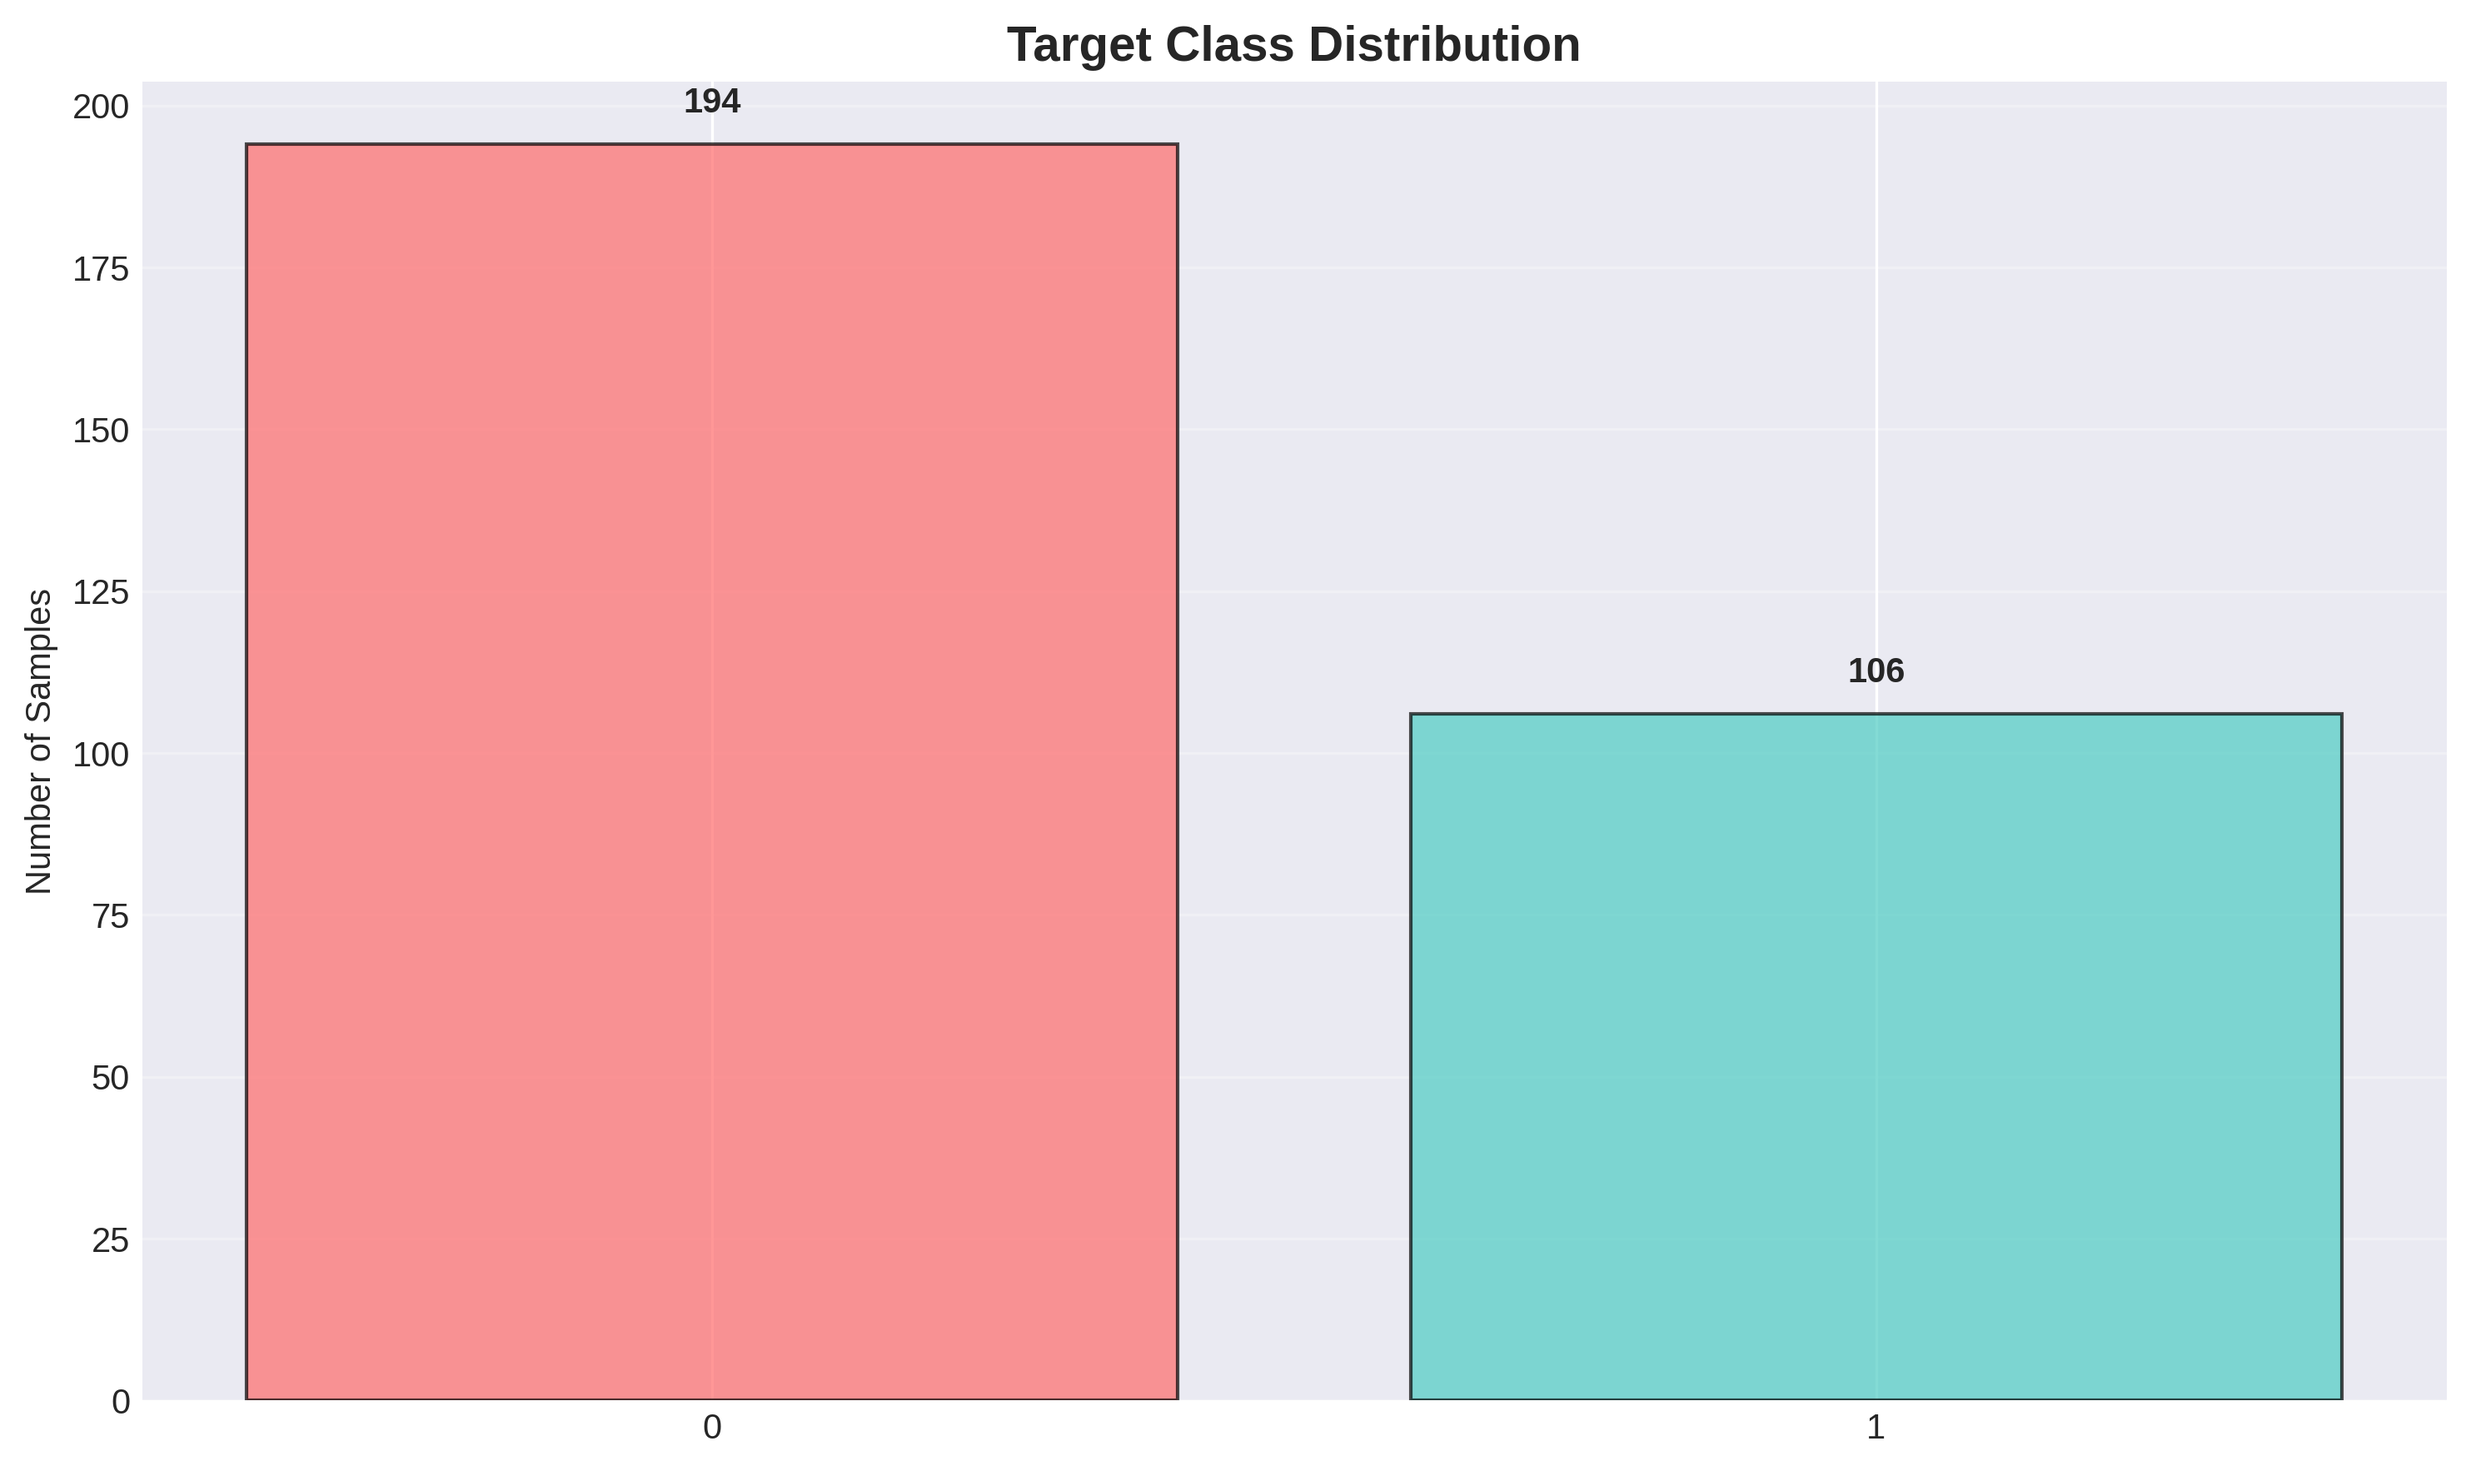
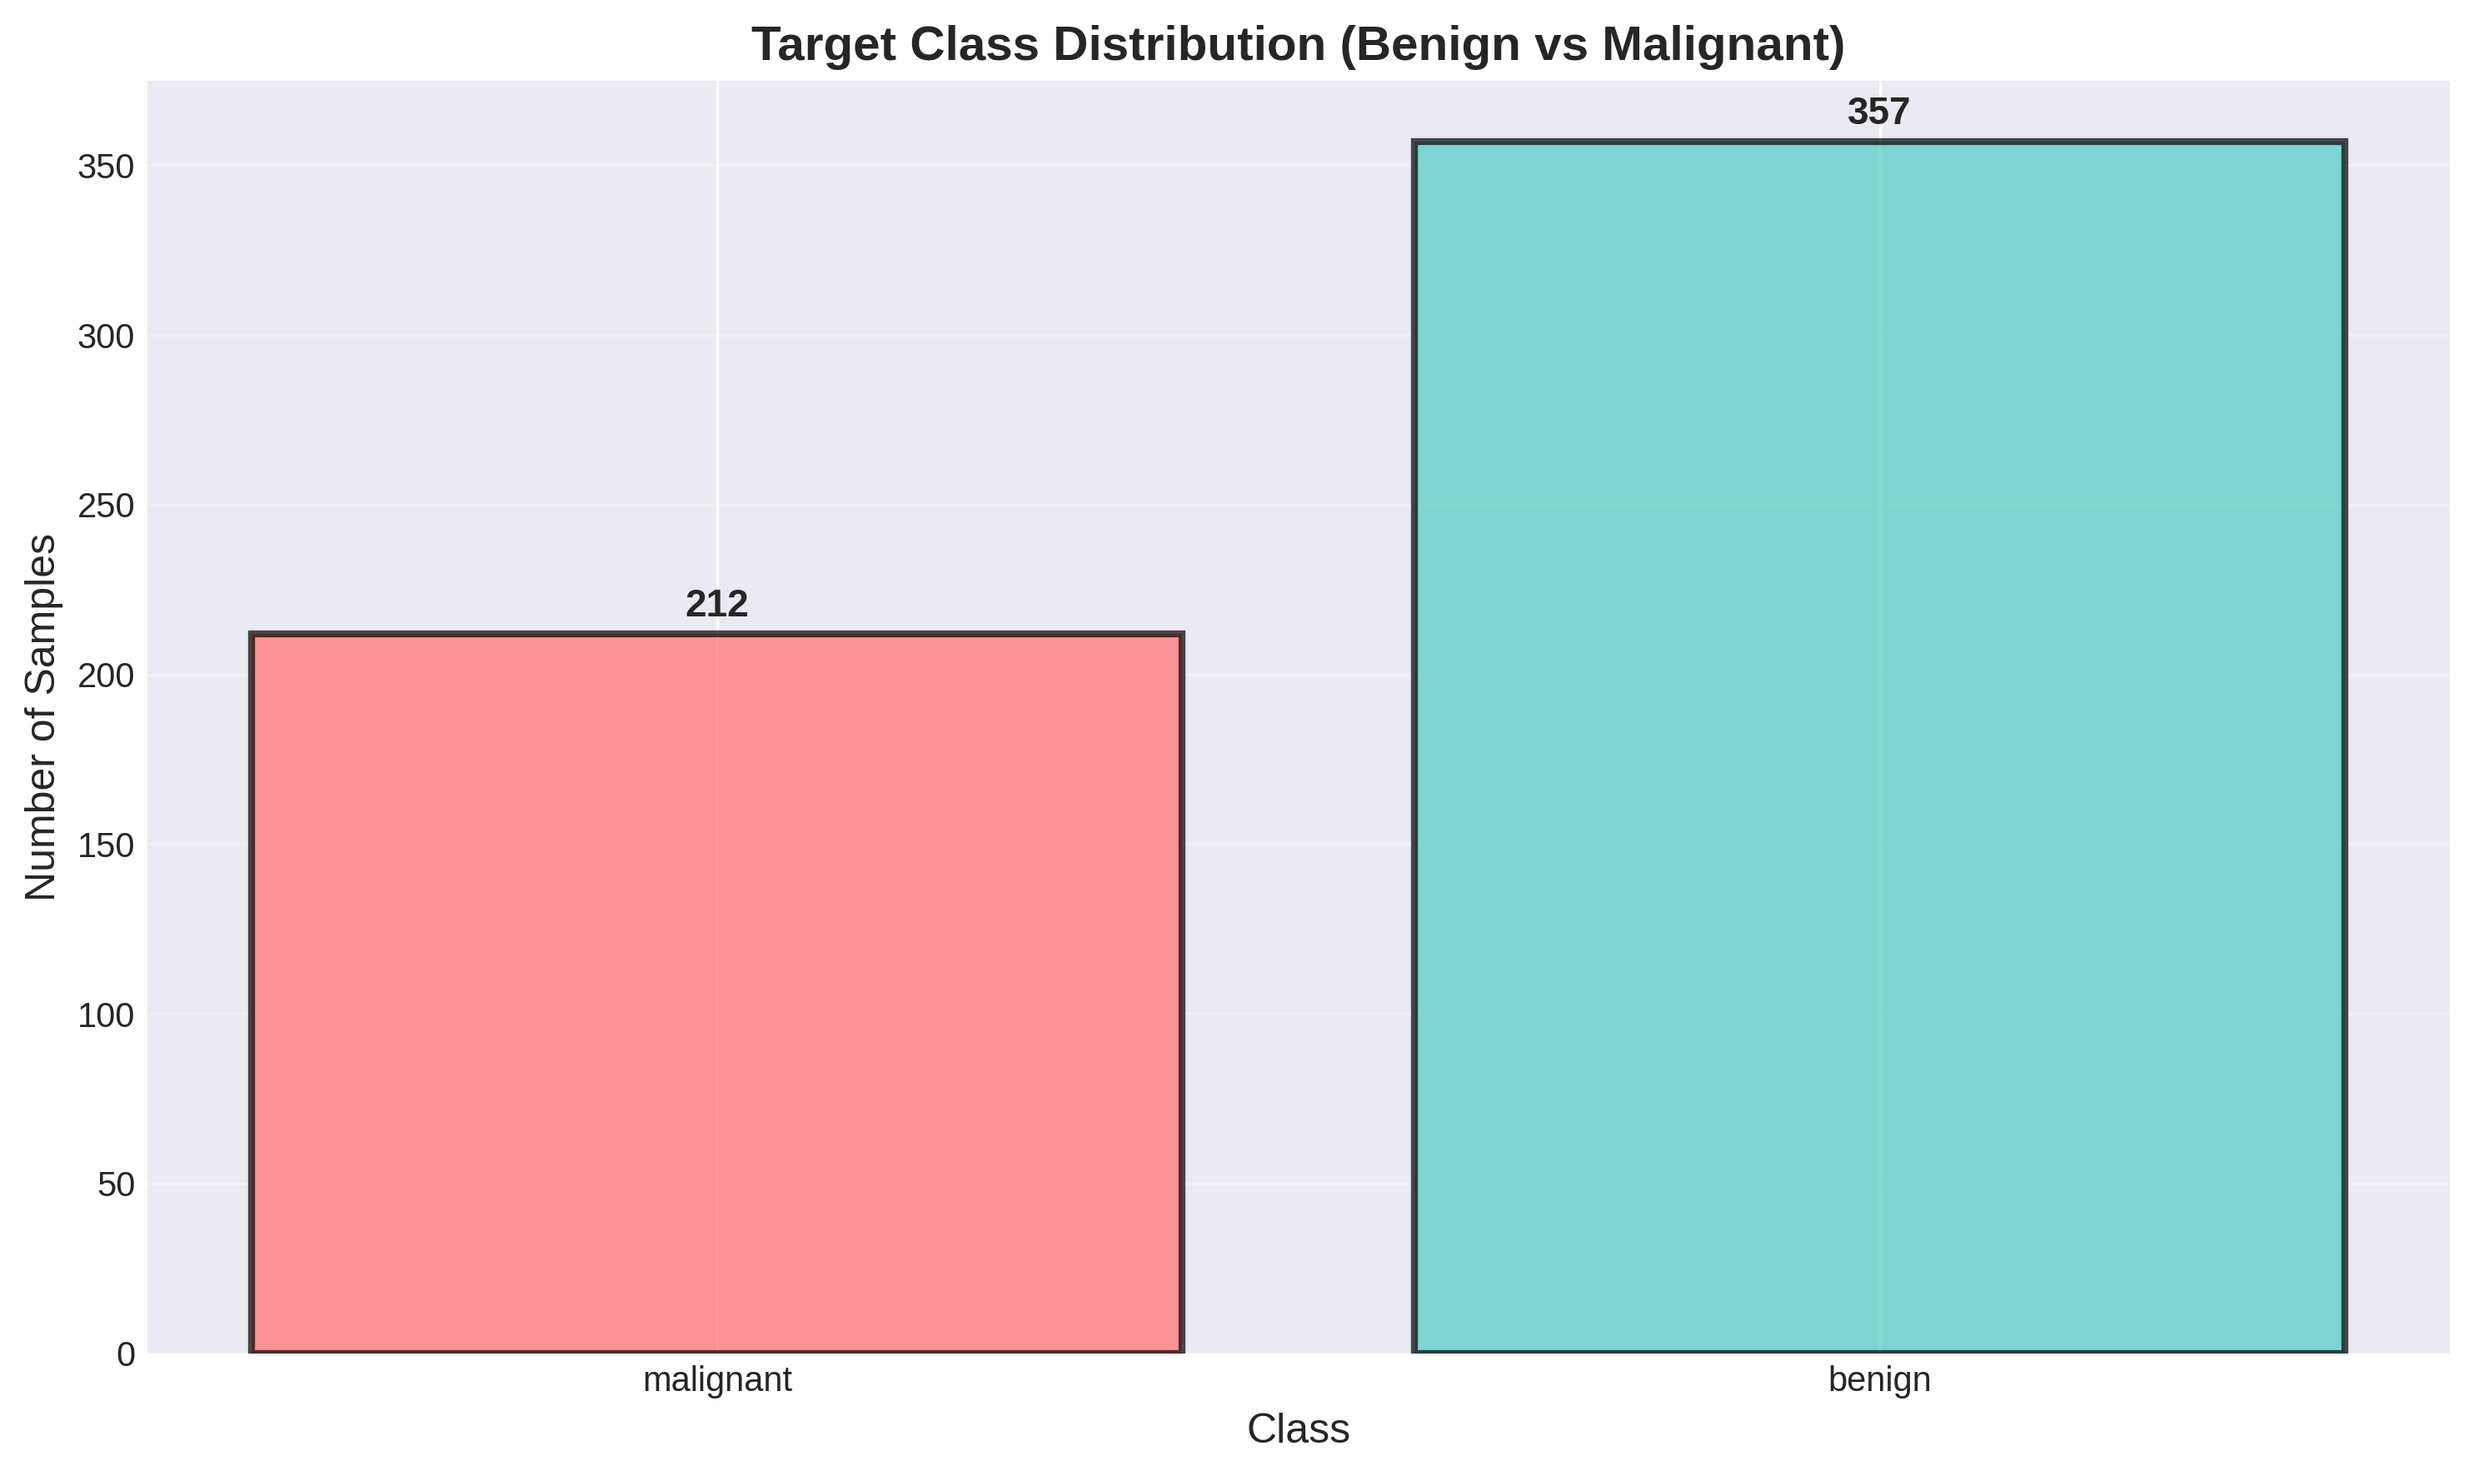
Update project

diff --git a/templates/index.html b/templates/index.html
@@ -1,19 +1,15 @@
 <!DOCTYPE html>
 <html lang="en">
 <head>
-    <!-- Meta Information -->
     <meta charset="UTF-8">
     <meta name="viewport" content="width=device-width, initial-scale=1.0">
     <meta name="description" content="Cancer Health Prediction System using Machine Learning">
     <title>Cancer Health Prediction System</title>
     
-    <!-- Bootstrap CSS for responsive design -->
     <link href="https://cdn.jsdelivr.net/npm/bootstrap@5.3.0/dist/css/bootstrap.min.css" rel="stylesheet">
     
-    <!-- Font Awesome for icons -->
     <link rel="stylesheet" href="https://cdnjs.cloudflare.com/ajax/libs/font-awesome/6.0.0/css/all.min.css">
     
-    <!-- Custom CSS Styles -->
     <style>
         /* Root variables for consistent theming */
         :root {
@@ -391,7 +387,6 @@
     </style>
 </head>
 <body>
-    <!-- Header Section -->
     <div class="header">
         <h1><i class="fas fa-heartbeat"></i> Cancer Health Prediction</h1>
         <p>Intelligent Tumor Classification System</p>
@@ -400,18 +395,13 @@
         </p>
     </div>
     
-    <!-- Main Container -->
     <div class="container">
-        <!-- Main Card -->
         <div class="card">
-            <!-- Card Header -->
             <div class="card-header">
                 <h2><i class="fas fa-flask"></i> Prediction Form</h2>
             </div>
             
-            <!-- Card Body -->
             <div class="card-body">
-                <!-- Instructions -->
                 <div class="instructions">
                     <h4><i class="fas fa-info-circle"></i> How to Use</h4>
                     <ol>
@@ -421,22 +411,26 @@
                         <li>Results show whether the tumor is likely Benign or Malignant</li>
                         <li>Always consult with medical professionals for final diagnosis</li>
                     </ol>
+                    <div style="margin-top: 15px; padding-top: 10px; border-top: 1px dashed #ccc; font-weight: 600;">
+                        <span style="color: var(--primary-color); margin-right: 10px;"><i class="fas fa-magic"></i> Testing Utilities:</span>
+                        <a href="#" onclick="fillSampleData(event, 'benign')" style="color: var(--success-color); text-decoration: none; margin-right: 15px;">
+                            [Fill Benign Sample]
+                        </a>
+                        <a href="#" onclick="fillSampleData(event, 'malignant')" style="color: var(--accent-color); text-decoration: none;">
+                            [Fill Malignant Sample]
+                        </a>
+                    </div>
                 </div>
                 
-                <!-- Error Messages -->
                 <div id="errorMessage" class="alert alert-danger" style="display: none;">
                     <strong><i class="fas fa-exclamation-triangle"></i> Error:</strong>
                     <span id="errorText"></span>
                 </div>
                 
-                <!-- Prediction Form -->
                 <form id="predictionForm" onsubmit="submitForm(event)">
-                    <!-- Features Grid -->
                     <div class="features-grid" id="featuresContainer">
-                        <!-- Features will be dynamically populated by JavaScript -->
                     </div>
                     
-                    <!-- Submit Buttons -->
                     <div style="display: flex; gap: 10px; margin-top: 30px;">
                         <button type="submit" class="btn btn-predict" id="predictBtn">
                             <i class="fas fa-brain"></i> Predict
@@ -447,7 +441,6 @@
                     </div>
                 </form>
                 
-                <!-- Loading Spinner -->
                 <div class="spinner" id="loadingSpinner">
                     <div class="spinner-border" role="status">
                         <span class="visually-hidden">Loading...</span>
@@ -457,15 +450,12 @@
                     </p>
                 </div>
                 
-                <!-- Results Section -->
                 <div class="results-section" id="resultsSection">
-                    <!-- Results will be displayed here dynamically -->
                 </div>
             </div>
         </div>
     </div>
     
-    <!-- Footer -->
     <div class="footer">
         <p>
             <i class="fas fa-copyright"></i> 2026 Cancer Health Prediction System • 
@@ -477,10 +467,8 @@
         </p>
     </div>
     
-    <!-- Bootstrap JS -->
     <script src="https://cdn.jsdelivr.net/npm/bootstrap@5.3.0/dist/js/bootstrap.bundle.min.js"></script>
     
-    <!-- Custom JavaScript -->
     <script>
         /**
          * Initialize the form by loading feature names from the server
@@ -623,6 +611,58 @@
             
             resultsSection.innerHTML = resultsHTML;
             resultsSection.classList.add('show');
+        }
+
+        /**
+         * Automatically fill all 30 inputs with sample datasets for quick testing
+         * Enhanced with dynamic +/- 5% jitter variance simulation loop logic
+         */
+        function fillSampleData(event, type) {
+            if (event) event.preventDefault(); // Stop page jumping
+            
+            const benignSample = [
+                13.54, 14.36, 87.46, 566.3, 0.09779,
+                0.08129, 0.06664, 0.04781, 0.1885, 0.05766,
+                0.2699, 0.7886, 2.058, 23.56, 0.008462,
+                0.0146, 0.02387, 0.01315, 0.0198, 0.0023,
+                15.11, 19.26, 99.7, 711.2, 0.144,
+                0.1773, 0.239, 0.1288, 0.2977, 0.07259
+            ];
+
+            const malignantSample = [
+                17.99, 10.38, 122.8, 1001, 0.1184,
+                0.2776, 0.3001, 0.1471, 0.2419, 0.07871,
+                1.095, 0.9053, 8.589, 153.4, 0.006399,
+                0.04904, 0.05373, 0.01587, 0.03003, 0.006193,
+                25.38, 17.33, 184.6, 2019, 0.1622,
+                0.6656, 0.7119, 0.2654, 0.4601, 0.1189
+            ];
+
+            // Choose dataset variant based on click selection
+            const baseSample = (type === 'malignant') ? malignantSample : benignSample;
+
+            // Sequentially loop and assign values with a slight dynamic fluctuation
+            baseSample.forEach((baseVal, index) => {
+                const inputElement = document.getElementById(`feature${index}`);
+                if (inputElement) {
+                    // Generates a random multiplier variant between 0.95 and 1.05 (+/- 5% variance)
+                    const randomJitter = 0.95 + (Math.random() * 0.10);
+                    let alteredValue = baseVal * randomJitter;
+                    
+                    // Maintain proportional float rendering lengths based on input numeric scales
+                    if (baseVal < 1) {
+                        alteredValue = parseFloat(alteredValue.toFixed(5));
+                    } else {
+                        alteredValue = parseFloat(alteredValue.toFixed(2));
+                    }
+                    
+                    inputElement.value = alteredValue;
+                }
+            });
+            
+            // Clean interface slate
+            hideError();
+            document.getElementById('resultsSection').classList.remove('show');
         }
         
         /**
